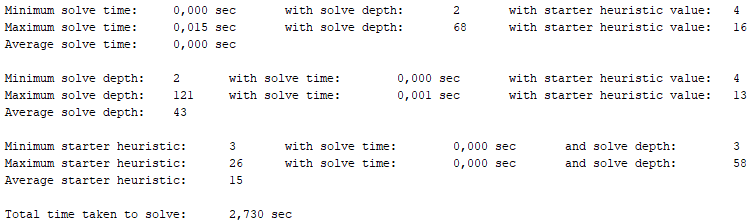
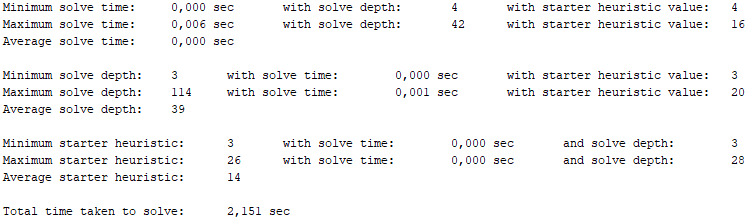
algoritmia optimoitu, ajanotot tehty uudelleen

diff --git a/15-puzzle-solver/src/main/java/application/App.java b/15-puzzle-solver/src/main/java/application/App.java
@@ -29,7 +29,12 @@ public class App {
         break;
       case "3":
         System.out.println("Select a new size. (3-5 recommended)");
-        board.setSize(input.nextInt());
+        int selection = input.nextInt();
+        while (selection < 3) {
+          System.out.println("Board sizes below 3 will not work. Please give anouther size.");
+          selection = input.nextInt();
+        }
+        board.setSize(selection);
         menu(board);
         break;
       default:
@@ -39,7 +44,7 @@ public class App {
 
   static void singleSolve(Board board) throws InterruptedException {
     board.shuffleBoard();
-    int starterHeuristic = new Node(board.getGameBoard(), null).getHValue();
+    int starterHeuristic = new Node(board.getGameBoard(), null).getHeuristicValue();
     System.out.println("\nStarting the puzzle with board\n" + board.toString());
 
     System.out.println("Solving...");
@@ -47,9 +52,10 @@ public class App {
     Node node = board.aStar();
     double elapsedTime = (System.nanoTime() - startTime) / 1_000_000_000;
 
+    int solutionDepth = node.getDepth();
     System.out.println("Started with heuristic value of " + starterHeuristic);
     System.out.println("Solved in " + String.format("%.3f", elapsedTime) + " seconds.");
-    System.out.println("Found solution has depth " + node.getDepth());
+    System.out.println("Found solution has depth " + solutionDepth);
 
     NodeList solutionNodes = new NodeList();
     while (node != null) {
@@ -61,10 +67,18 @@ public class App {
     Scanner input = new Scanner(System.in);
     String response = input.nextLine();
     if ("y".equalsIgnoreCase(response)) {
+      System.out.println("Do you wanna print everything at once or step-by-step?");
+      System.out.println("\t1. All at once.");
+      System.out.println("\t2. Step-by-step. (Note! This will take " + String.format("%.1f", solutionDepth * 0.3) + " seconds)");
+      int selection = input.nextInt();
+      while (selection != 1 && selection != 2) {
+        selection = input.nextInt();
+      }
+      int sleepTime = selection == 1 ? 0 : 300;
       while (!solutionNodes.isEmpty()) {
         node = solutionNodes.pollFirst();
         System.out.println(node.toString());
-        Thread.sleep(300);
+        Thread.sleep(sleepTime);
       }
     }
   }
@@ -95,7 +109,7 @@ public class App {
     System.out.println("Solving...");
     for (int solveCount = 1; solveCount <= solveAmount; solveCount++) {
       board.shuffleBoard();
-      int starterHeuristic = new Node(board.getGameBoard(), null).getHValue();
+      int starterHeuristic = new Node(board.getGameBoard(), null).getHeuristicValue();
       
       double startTime = System.nanoTime();
       Node node = board.aStar();

diff --git a/15-puzzle-solver/src/main/java/lists/Heap.java b/15-puzzle-solver/src/main/java/lists/Heap.java
@@ -13,12 +13,12 @@ public class Heap {
 
   /**
    * Initialize a new Heap with hard coded maximum
-   * size. The maximum size of 2000 was decided after
+   * size. The maximum size of 1000 was decided after
    * testing the solve speeds with various maximum sizes.
    */
   public Heap() {
     this.size = 0;
-    this.maxSize = 2000;
+    this.maxSize = 1000;
     this.heap = new Node[this.maxSize + 1];
   }
 
@@ -37,7 +37,7 @@ public class Heap {
     int current = this.size; 
     while (
       this.heap[this.getParent(current)] != null &&
-      this.heap[current].getHValue() < this.heap[this.getParent(current)].getHValue()
+      this.heap[current].getHeuristicValue() < this.heap[this.getParent(current)].getHeuristicValue()
     ) {
       this.swap(current, this.getParent(current));
       current = this.getParent(current);
@@ -69,10 +69,10 @@ public class Heap {
         return;
       }
       if (
-        this.heap[pos].getHValue() > leftChild.getHValue() ||
-        this.heap[pos].getHValue() > rightChild.getHValue()
+        this.heap[pos].getHeuristicValue() > leftChild.getHeuristicValue() ||
+        this.heap[pos].getHeuristicValue() > rightChild.getHeuristicValue()
       ) {
-        if (leftChild.getHValue() < rightChild.getHValue()) {
+        if (leftChild.getHeuristicValue() < rightChild.getHeuristicValue()) {
           this.swap(pos, this.getLeftChild(pos));
           this.sortHeap(this.getLeftChild(pos));
         } else {

diff --git a/15-puzzle-solver/src/main/java/gameboard/Node.java b/15-puzzle-solver/src/main/java/gameboard/Node.java
@@ -157,10 +157,12 @@ public class Node {
     boolean bigPieceFoundBeforeSmallTarget = false;
     for (int i = 0; i < this.size; i++) {
       for (int j = 0; j < this.size; j++) {
-        if (line[i] == targetLine[j] && i < j) {
-          bigPieceFoundBeforeSmallTarget = true;
-        } else if (line[i] == targetLine[j] && i > j) {
-          smallPieceFoundAfterBigTarget = true;
+        if (line[i] != this.size * this.size && targetLine[j] != this.size * this.size) {
+          if (line[i] == targetLine[j] && i < j) {
+            bigPieceFoundBeforeSmallTarget = true;
+          } else if (line[i] == targetLine[j] && i > j) {
+            smallPieceFoundAfterBigTarget = true;
+          }
         }
       }
     }
@@ -175,13 +177,12 @@ public class Node {
    *          the game board is in a solved state.
    */
   public boolean isSolved() {
-    boolean solved = true;
     for (int i = 0; i < this.size * this.size; i++) {
       if (this.boardLayout[i] != i + 1) {
-        solved = false;
+        return false;
       }
     }
-    return solved;
+    return true;
   }
   
   /**
@@ -228,7 +229,7 @@ public class Node {
    * 
    * @return  The heuristic value of the node.
    */
-  public int getHValue() {
+  public int getHeuristicValue() {
     return this.heuristicValue;
   }
   

diff --git a/15-puzzle-solver/src/test/java/gameboard/BoardTest.java b/15-puzzle-solver/src/test/java/gameboard/BoardTest.java
@@ -34,7 +34,7 @@ public class BoardTest {
     assertEquals(14, board.getInversionCount());
   }
 
-  @Test(timeout=10000)
+  @Test(timeout=60000)
   public void testAStarWithSize4() {
     Board board = new Board();
     board.shuffleBoard();
@@ -44,7 +44,7 @@ public class BoardTest {
     );
   }
 
-  @Test(timeout=10000)
+  @Test(timeout=60000)
   public void testAStarWithSize5() {
     Board board = new Board();
     board.setSize(5);
@@ -92,5 +92,19 @@ public class BoardTest {
     assertEquals(4, board.getPieceNumber(3));
     assertEquals(10, board.getPieceNumber(9));
     assertEquals(16, board.getPieceNumber(15));
+  }
+  
+  @Test
+  public void testToString() {
+    Board board = new Board();
+    assertEquals(
+      "1\t2\t3\t4\t\n5\t6\t7\t8\t\n9\t10\t11\t12\t\n13\t14\t15\t\t\n",
+      board.toString()
+    );
+    board.setGameBoard(new int[] {1, 2, 3, 4, 5, 6, 7, 8, 9, 10, 11, 12, 13, 14, 16, 15});
+    assertEquals(
+      "1\t2\t3\t4\t\n5\t6\t7\t8\t\n9\t10\t11\t12\t\n13\t14\t\t15\t\n",
+      board.toString()
+    );
   }
 }

diff --git a/15-puzzle-solver/src/test/java/gameboard/NodeTest.java b/15-puzzle-solver/src/test/java/gameboard/NodeTest.java
@@ -77,7 +77,23 @@ public class NodeTest {
     int[] board2 = new int[] {3, 1, 2, 8, 5, 6, 7, 4, 9, 10, 11, 12, 13, 14, 15, 16};
     Node node1 = new Node(board1, null);
     Node node2 = new Node(board2, null);
-    assertEquals(0, node1.getHValue());
-    assertEquals(10, node2.getHValue());
+    assertEquals(0, node1.getHeuristicValue());
+    assertEquals(10, node2.getHeuristicValue());
+  }
+  
+  @Test
+  public void testToString() {
+    int[] board1 = new int[] {1, 2, 3, 4, 5, 6, 7, 8, 9, 10, 11, 12, 13, 14, 15, 16};
+    int[] board2 = new int[] {1, 2, 3, 4, 5, 6, 7, 8, 9, 10, 11, 12, 13, 14, 16, 15};
+    Node node1 = new Node(board1, null);
+    Node node2 = new Node(board2, node1);
+    assertEquals(
+      "Current depth: 0\n1\t2\t3\t4\t\n5\t6\t7\t8\t\n9\t10\t11\t12\t\n13\t14\t15\t\t\n",
+      node1.toString()
+    );
+    assertEquals(
+      "Current depth: 1\n1\t2\t3\t4\t\n5\t6\t7\t8\t\n9\t10\t11\t12\t\n13\t14\t\t15\t\n",
+      node2.toString()
+    );
   }
 }

diff --git a/15-puzzle-solver/src/main/java/lists/BoardList.java b/15-puzzle-solver/src/main/java/lists/BoardList.java
@@ -32,6 +32,35 @@ public class BoardList {
   }
   
   /**
+   * Check if the list contains a given board.
+   * 
+   * @param   board The game board that list will be compared against.
+   * 
+   * @return  Boolean value indicating wether or
+   *          not list contains a given board.
+   */
+  public boolean contains(int[] board) {
+    boolean found = false;
+    BoardListElement element = this.getHead();
+    while (element != null) { // Iterate through the list
+      boolean sameBoard = true;
+      int i = board.length;
+      while (--i >= 0) {
+        if (board[i] != element.getBoard()[i]) {
+          sameBoard = false;
+          break;
+        }
+      }
+      if (sameBoard) {
+        found = true;
+        break;
+      }
+      element = element.getNext();
+    }
+    return found;
+  }
+  
+  /**
    * Returns the head of the list. The whole
    * list can then be iterated through it.
    * 

diff --git a/15-puzzle-solver/src/main/java/gameboard/Board.java b/15-puzzle-solver/src/main/java/gameboard/Board.java
@@ -96,19 +96,8 @@ public class Board {
       closedList.add(current.getBoard());
       current.addChildren();
       for (Node child: current.getChildren()) {
-        if (child != null) {
-          boolean newLayout = true;
-          BoardListElement element = closedList.getHead();
-          while (element != null) { // Make sure child node isn't already checked layout
-            if (Arrays.equals(element.getBoard(), child.getBoard())) {
-              newLayout = false;
-              break;
-            }
-            element = element.getNext();
-          }
-          if (newLayout) { // Add to open list if new unchecked board layout
-            openList.add(child);
-          }
+        if (child != null && !closedList.contains(child.getBoard())) {
+          openList.add(child); // Add to open list if new unchecked board layout
         }
       }
     }

diff --git a/15-puzzle-solver/src/test/java/lists/BoardListTest.java b/15-puzzle-solver/src/test/java/lists/BoardListTest.java
@@ -21,4 +21,16 @@ public class BoardListTest {
     element = element.getNext();
     assertArrayEquals(board3, element.getBoard());
   }
+
+  @Test
+  public void testContains() {
+    int[] board1 = new int[] {1};
+    int[] board2 = new int[] {2};
+    BoardList list = new BoardList();
+    assertEquals(false, list.contains(board2));
+    list.add(board1);
+    assertEquals(false, list.contains(board2));
+    list.add(board2);
+    assertEquals(true, list.contains(board2));
+  }
 }

diff --git a/15-puzzle-solver/src/test/java/lists/NodeElementTest.java b/15-puzzle-solver/src/test/java/lists/NodeElementTest.java
@@ -18,7 +18,7 @@ public class NodeElementTest {
   public void testGetHeuristicValue() {
     int[] board = new int[] {1, 2, 3, 4, 5, 6, 7, 8, 9, 10, 11, 12, 13, 14, 15, 16};
     NodeListElement element = new NodeListElement(new Node(board, null));
-    assertEquals(0, element.getHValue());
+    assertEquals(0, element.getHeuristicValue());
   }
 
   @Test

diff --git a/15-puzzle-solver/src/main/java/lists/NodeListElement.java b/15-puzzle-solver/src/main/java/lists/NodeListElement.java
@@ -34,8 +34,8 @@ public class NodeListElement {
    * 
    * @return  The heuristic value of the node.
    */
-  public int getHValue() {
-    return this.node.getHValue();
+  public int getHeuristicValue() {
+    return this.node.getHeuristicValue();
   }
   
   /**

diff --git a/dokumentaatio/testausdokumentti.md b/dokumentaatio/testausdokumentti.md
@@ -16,6 +16,6 @@ Sovelluksella voi myös ratkaista muita n-pelejä. Alla olevassa kuvassa tulokse
 
 Lisäksi alla ratkaisuajat 100 satunnaiselle pelilaudalle, kun laudan koko on 5\*5. Voidaan huomata, että laudan koon kasvattaminen kasvattaa huomattavasti vaadittavaa ratkaisuaikaa.
 
-![kuva](https://github.com/pyigyli/15-puzzle-solver/blob/master/dokumentaatio/kuvat/size_5-100_solves.png "Testitulokset 10000 satunnaisella pelilaudalla")
+![kuva](https://github.com/pyigyli/15-puzzle-solver/blob/master/dokumentaatio/kuvat/size_5-1000_solves.png "Testitulokset 10000 satunnaisella pelilaudalla")
 
 Algoritmin testauksen lisäksi sovellus sisältää yksikkötestejä, jotka voidaan ajaa konsolikomennolla `mvn test`. Yksikkötesteillä on varmistettu, että algoritmin ja sovelluksen eri osat toimivat. Testit ovat kattavia, mutta pari asiaa vaativat, että käyttäjä tarkistaa niiden toiminnat ajamalla ohjelman. Esimerkiksi `toString()`-metodit ja se, että sekoitettu lauta on todellisesti satunnainen, eivät selviä yksikkötesteistä, vaikka pelilaudan sekoittamista on testattu muuten hyvin. On myös pieni mahdollisuus, että satunnaisuudesta johtuen kaikkia haaroja ei käydä testauksessa läpi. Esimerkiksi jos lauta on liian helppo ratkaista, maksimi listan pituutta ei saavuteta.

diff --git a/dokumentaatio/viikkoraportit/viikko-6.md b/dokumentaatio/viikkoraportit/viikko-6.md
@@ -1,0 +1,14 @@
+# Viikkoraportti 5
+---
+Tein vähän lisää optimointia/refaktorointia koodin luettavuuden parantamiseksi. Pääsin myös eroon Arrays.util.arrayEquals() riippuvuudesta. Tämän jälkeen kokeilin muita algoritmejä, joita voisin ehkä lisätä ohjelmaan, mutta iteratiivisia algoritmeja ei oikein voi toteuttaa ahneita, sillä liika metodien kutsuminen kaataa ohjelman.
+
+Käytetty aika tiistaina: 3 tuntia
+
+---
+Tein kattavaa vertailua, jotta saisin heapin koosta mahdollisimman optimaalisen. Tämän jälkeen tein aikatestaukset kokonaan uudelleen, mikä vei paljon aikaa. Tein myös vähän muutoksia vertaispalautteen perusteella. Aikojen ottamisesta teki hyvin turhauttavaa, että löysin ajanottojen jälkeen yhä uusia optimointeja, joten jouduin tekemään ne useaan kertaan. Esimerkiksi tajusin laittaa usean while ja for loopin sisään breakin, kun tarvittava if oli saavutettu. Nyt algoritmi on ainakin hurjan nopea.
+
+Käytetty aika torstaina: 7 tuntia
+
+---
+Käytetty aika yhteensä viikon aikana: 10
+-
